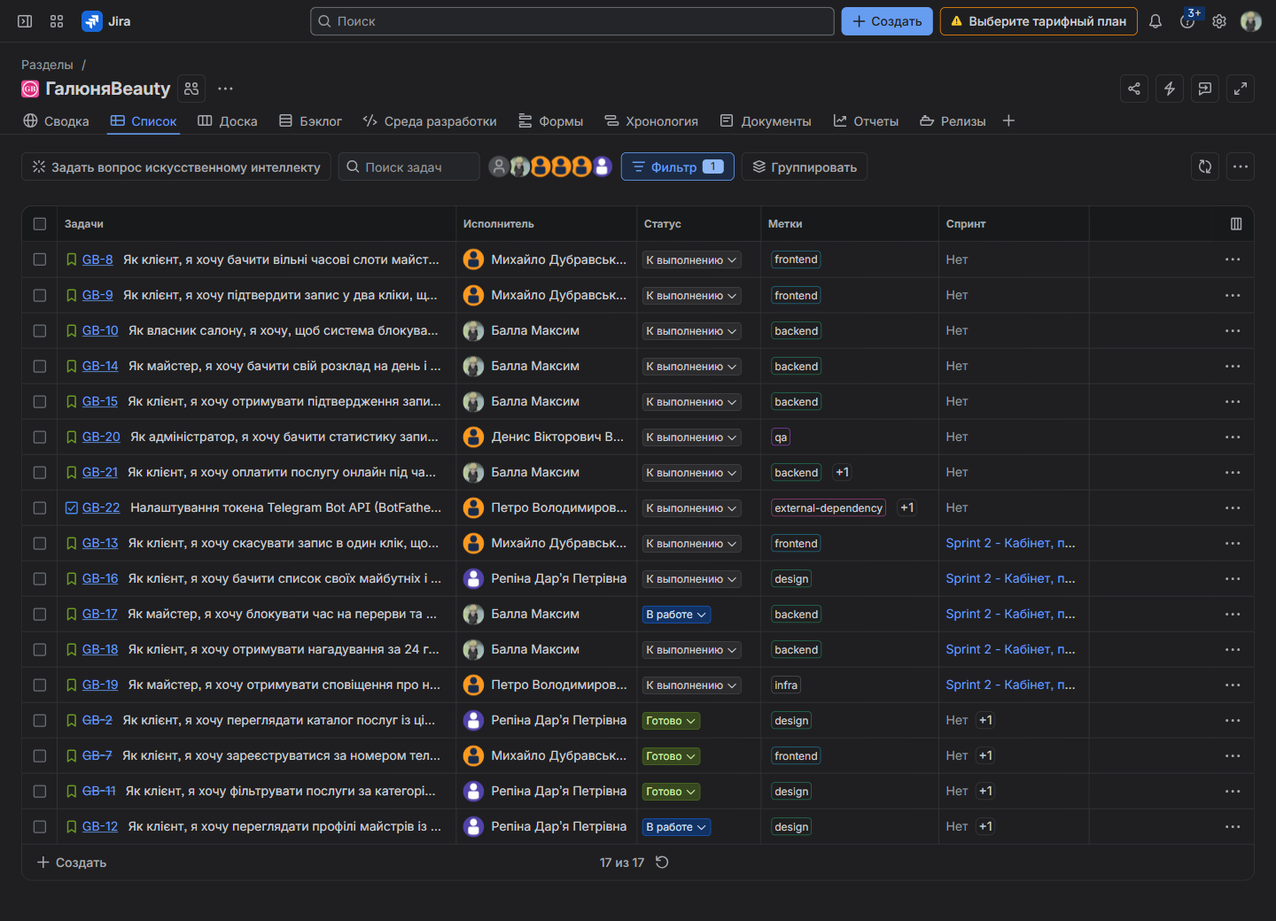
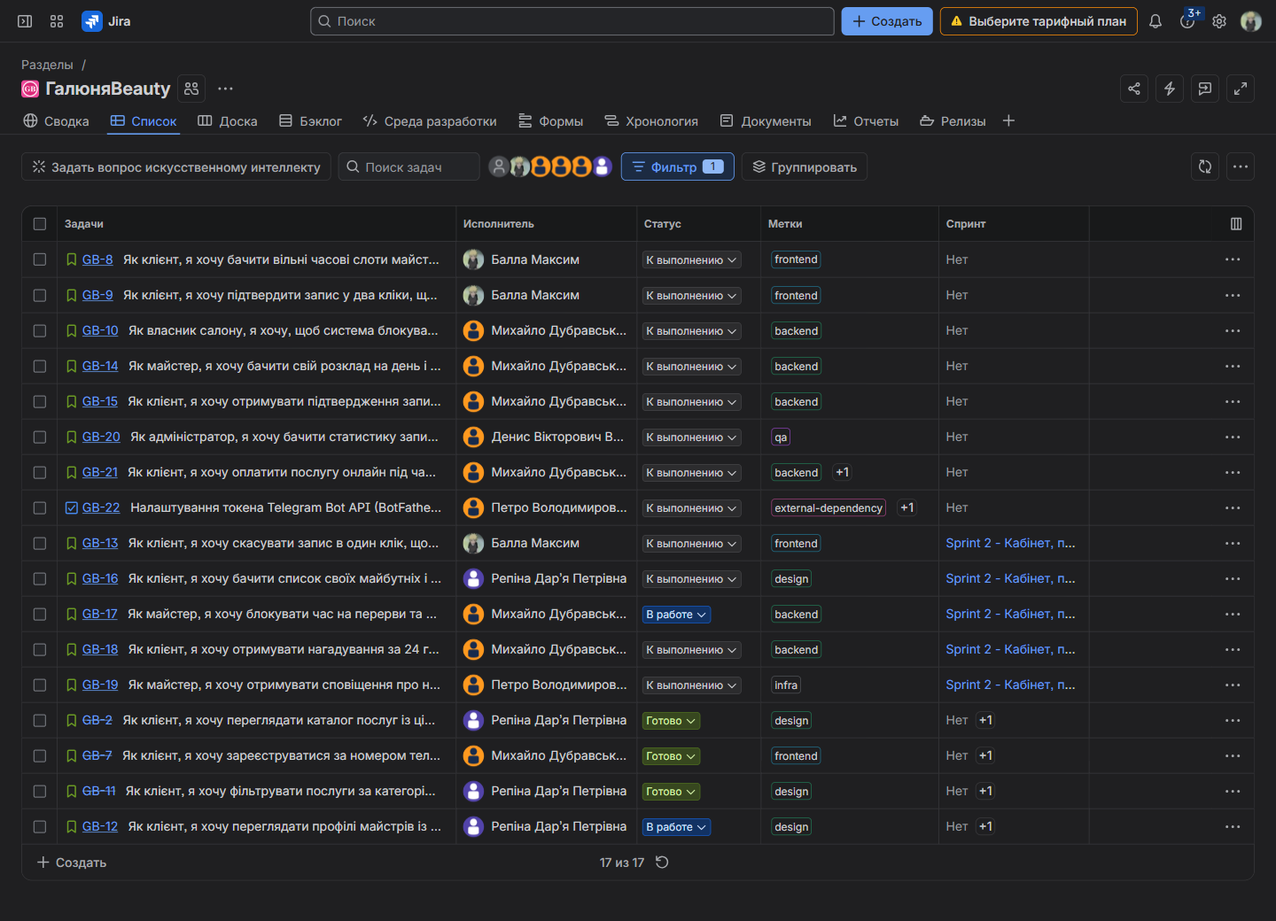
Update roles: Maksym -> Frontend Lead, Mykhailo -> Backend/API & Telegram Lead

diff --git a/resources.md b/resources.md
@@ -8,8 +8,8 @@
 
 | Учасник | Ролі в проєкті | Доступність (FTE) | Годин на тиждень |
 |---------|----------------|:-----------------:|:----------------:|
-| Балла Максим | Tech Lead + Backend | 0.30 | 12 |
-| Михайло Дубравський | Frontend + Backend | 0.25 | 10 |
+| Михайло Дубравський | Backend + API / Telegram | 0.30 | 12 |
+| Балла Максим | Tech Lead + Frontend | 0.25 | 10 |
 | Антонюк Петро | PM + Infra | 0.20 | 8 |
 | Репіна Дар'я | Designer + UI | 0.20 | 8 |
 | Денис Войтенко | Analyst + QA | 0.20 | 8 |
@@ -41,11 +41,11 @@
 
 | Навичка | Антонюк Петро | Балла Максим | Михайло Дубравський | Репіна Дар'я | Денис Войтенко | Потрібний рівень | Ризик |
 |---------|:-------------:|:------------:|:-------------------:|:------------:|:--------------:|:----------------:|-------|
-| React / Frontend | 1 | 2 | 3 | 1 | 0 | ≥2 | Середній (2 учасники ≥2) |
-| Node.js / Backend | 1 | 3 | 2 | 0 | 0 | ≥2 | Середній (2 учасники ≥2) |
-| Бази даних | 1 | 3 | 2 | 0 | 1 | ≥2 | Середній (2 учасники ≥2) |
+| React / Frontend | 1 | 3 | 2 | 1 | 0 | ≥2 | Середній (2 учасники ≥2) |
+| Node.js / Backend + Telegram API | 1 | 2 | 3 | 0 | 0 | ≥2 | Середній (2 учасники ≥2) |
+| Бази даних | 1 | 2 | 3 | 0 | 1 | ≥2 | Середній (2 учасники ≥2) |
 | Тестування (QA) | 2 | 2 | 2 | 1 | 3 | ≥1 | Низький (5 учасників ≥1) |
-| DevOps / Деплой | 1 | 3 | 1 | 0 | 0 | ≥1 | Високий (рівень ≥2 лише у 1 особи) |
+| DevOps / Деплой | 1 | 1 | 3 | 0 | 0 | ≥1 | Високий (рівень ≥2 лише у 1 особи) |
 | Дизайн / Figma | 0 | 1 | 0 | 3 | 1 | ≥1 | Високий (рівень ≥2 лише у 1 особи) |
 | Git / Code Review | 2 | 3 | 2 | 2 | 2 | ≥2 | Низький (усі 5 учасників ≥2) |
 
@@ -55,10 +55,10 @@
 
 | Питання | Відповідь |
 |---------|-----------|
-| Яка навичка покрита лише однією людиною? | Дизайн / Figma на робочому рівні (≥2) має лише Репіна Дар'я (оцінка 3). Самостійний DevOps / деплой і конфігурація Telegram Bot API на рівні ≥2 є лише у Балли Максима (оцінка 3); Антонюк Петро та Михайло Дубравський мають базовий рівень 1. |
-| Який Bus Factor у критичних зонах? | У зонах `design` та `infra` (налаштування хостингу й бота) Bus Factor = **1**. У зонах `backend`, `frontend` і роботі з БД Bus Factor = **2** (Балла Максим і Михайло Дубравський можуть підстрахувати один одного). У `qa` та `Git` Bus Factor ≥ **3**. |
+| Яка навичка покрита лише однією людиною? | Дизайн / Figma на робочому рівні (≥2) має лише Репіна Дар'я (оцінка 3). Самостійний DevOps / деплой і налаштування серверного оточення для Telegram Bot API на рівні ≥2 є лише у Михайла Дубравського (оцінка 3); Антонюк Петро та Балла Максим мають базовий рівень 1. |
+| Який Bus Factor у критичних зонах? | У зонах `design` та `infra` (налаштування хостингу й серверної конфігурації бота) Bus Factor = **1**. У зонах `frontend`, `backend` і роботі з БД Bus Factor = **2** (Балла Максим і Михайло Дубравський можуть підстрахувати один одного). У `qa` та `Git` Bus Factor ≥ **3**. |
 | Яка навичка потрібна, але відсутня/слабка? | Практичний DevOps / налаштування оточення і деплою у більшості учасників команди (максимум 1 бал у 4 з 5 учасників). Це створює ризик затримки на задачі `GB-22` (Telegram Bot API та тестовий хостинг), яка блокує `GB-15`, `GB-18` і `GB-19`. |
-| План закриття розриву (хто що вчить, до якого спринту) | 1. Антонюк Петро разом із Баллою Максимом описує інструкцію деплою та налаштування `.env` / BotFather (`GB-22`) і виконує тестовий деплой до кінця Sprint 2 (`30.11.2026`), піднімаючи DevOps до рівня 2.<br>2. Репіна Дар'я створює спільну бібліотеку UI-компонентів у Figma до кінця Sprint 2 (`30.11.2026`), щоб Михайло Дубравський міг самостійно збирати екрани календаря (`GB-8`, `GB-9`) у Sprint 4.<br>3. Балла Максим і Михайло Дубравський проводять взаємний Code Review кожного PR у `backend` і `frontend` протягом Sprint 2–4. |
+| План закриття розриву (хто що вчить, до якого спринту) | 1. Антонюк Петро разом із Михайлом Дубравським описує інструкцію деплою та налаштування `.env` / BotFather (`GB-22`) і виконує тестовий деплой до кінця Sprint 2 (`30.11.2026`), піднімаючи DevOps до рівня 2.<br>2. Репіна Дар'я створює спільну бібліотеку UI-компонентів у Figma до кінця Sprint 2 (`30.11.2026`), щоб Балла Максим міг самостійно збирати екрани календаря (`GB-8`, `GB-9`) у Sprint 4.<br>3. Балла Максим і Михайло Дубравський проводять взаємний Code Review кожного PR у `frontend` і `backend` протягом Sprint 2–4. |
 
 ---
 
@@ -68,8 +68,8 @@
 
 | Label | Area Lead | К-сть задач | Що входить |
 |-------|-----------|:-----------:|------------|
-| `backend` | Балла Максим | 14 | API, БД, бізнес-логіка, захист від овербукінгу, інтеграція Telegram Bot API (`GB-4`, `GB-5`, `GB-10`, `GB-14`, `GB-15`, `GB-17`, `GB-18`, `GB-21`, `GB-23`, `GB-26`, `GB-30`, `GB-32`, `GB-33`, `GB-35`) |
-| `frontend` | Михайло Дубравський | 8 | UI-компоненти, форми, календар слотів, особистий кабінет (`GB-3`, `GB-7`, `GB-8`, `GB-9`, `GB-13`, `GB-24`, `GB-27`, `GB-31`) |
+| `backend` | Михайло Дубравський | 14 | API, БД, бізнес-логіка, захист від овербукінгу, інтеграція Telegram Bot API (`GB-4`, `GB-5`, `GB-10`, `GB-14`, `GB-15`, `GB-17`, `GB-18`, `GB-21`, `GB-23`, `GB-26`, `GB-30`, `GB-32`, `GB-33`, `GB-35`) |
+| `frontend` | Балла Максим | 8 | UI-компоненти, форми, календар слотів, особистий кабінет (`GB-3`, `GB-7`, `GB-8`, `GB-9`, `GB-13`, `GB-24`, `GB-27`, `GB-31`) |
 | `design` | Репіна Дар'я | 6 | Макети Figma, UX-сценарії, Mobile-First каталог і картки (`GB-1`, `GB-2`, `GB-11`, `GB-12`, `GB-16`, `GB-29`) |
 | `qa` | Денис Войтенко | 5 | Тестування, верифікація AC, перевірка крайніх випадків, аналітика (`GB-20`, `GB-25`, `GB-28`, `GB-34`, `GB-36`) |
 | `infra` | Антонюк Петро | 3 | Деплой, тестовий хостинг, токен BotFather, координація релізів (`GB-6`, `GB-19`, `GB-22`) |
@@ -88,14 +88,14 @@
 
 | Учасник | Задач у спринті (Sprint 2) | SP committed (Sprint 2) | SP done (Sprint 1) | % виконання (Sprint 1) | Висновок |
 |---------|:--------------------------:|:-----------------------:|:------------------:|:----------------------:|----------|
-| Балла Максим | 6 (2 Stories + 4 Subtasks; 16 год) | 6 SP | 0 SP* | — | Завантажений на 83% ефективної Capacity (19.2 год); основна опора в `backend`, у Sprint 4 потрібен розподіл навантаження |
-| Михайло Дубравський | 5 (1 Story + 4 Subtasks; 14 год) | 3 SP | 5 SP (`GB-7`, 5/5) | 100% | Завантажений на 88% ефективної Capacity (16.0 год); веде `frontend` і підстраховує `backend` (`GB-30`, `GB-32`) |
+| Михайло Дубравський | 6 (2 Stories + 4 Subtasks; 16 год) | 6 SP | 5 SP (`GB-7`, 5/5) | 100% | Завантажений на 83% ефективної Capacity (19.2 год); веде `backend` (API та Telegram Bot API), у Sprint 5 потрібен розподіл навантаження на `GB-10`/`GB-15` |
+| Балла Максим | 5 (1 Story + 4 Subtasks; 14 год) | 3 SP | 0 SP* | — | Завантажений на 88% ефективної Capacity (16.0 год); веде `frontend` (`GB-13`, `GB-24`, `GB-27`) і підстраховує `backend` (`GB-23`, `GB-26`) |
 | Денис Войтенко | 4 (0 Stories + 4 Subtasks; 9 год) | 0 SP** | 0 SP (`GB-12`, 0/5) | 0% | Завантажений на 70% ефективної Capacity (12.8 год); у S1 не закрив непрофільну дизайн-історію `GB-12`, у S2 сфокусований на `qa` |
 | Репіна Дар'я | 3 (1 Story + 2 Subtasks; 6 год) | 3 SP | 8 SP (`GB-2`, `GB-11`, 8/8) | 100% | Завантажена на 47% ефективної Capacity (12.8 год); має буфер часу для доробки `GB-12` та підготовки макетів Sprint 3 |
 | Антонюк Петро | 1 (1 Story + 0 Subtasks; +2 год `GB-22`) | 2 SP | 0 SP* | — | Веде `infra` (`GB-19`, `GB-22`) та PM-організацію спринту; має запас на контроль залежностей і приймальне тестування |
 | **Разом** | **19 (5 Stories + 14 Subtasks; 45 год)** | **14 SP** | **13 SP (з 18 SP)** | **72.2%** | Навантаження у Sprint 2 узгоджене з Capacity та зонами відповідальності |
 
-*\*У Sprint 1 Балла Максим і Антонюк Петро виконували налаштування репозиторію, тестового оточення, структури БД та Jira-беклогу, які не оцінювалися окремими User Stories.*
+*\*У Sprint 1 Балла Максим і Антонюк Петро виконували налаштування репозиторію, тестового оточення, структури проєкту та Jira-беклогу, які не оцінювалися окремими User Stories.*
 *\*\*У Jira Scrum Story Points виставляються лише на рівні Stories, тому QA-інженер у Sprint 2 має 0 Story-level SP, але відповідає за 4 Subtasks (`GB-25`, `GB-28`, `GB-34`, `GB-36`, сумарно 9 год) по всіх історіях спринту.*
 
 ---
@@ -105,8 +105,8 @@
 | Виявлена проблема | Рішення | Результат |
 |-------------------|---------|-----------|
 | У Sprint 1 історія `GB-12` (профілі майстрів, 5 SP) була закріплена за QA-аналітиком (Денисом Войтенком) і залишилась незавершеною | Перепризначили `GB-12` на Area Lead зони `design` (Репіну Дар'ю) і запланували завершення у Sprint 3 | Денис зосередився на `qa`; `GB-12` повернулася у свою технічну зону |
-| У Sprint 2 частина задач не відповідала зонам: `GB-19` (Telegram-сповіщення) висіла на дизайнері, `GB-16` та `GB-31 [FE]` — на QA, а `[QA]`-підзадачі `GB-28`, `GB-36` — на PM | Вирівняли призначення за Labels: `GB-19` → Петро (`infra`), `GB-16` і `GB-31` → Дар'я (`design`/`frontend`), `GB-27` → Михайло (`frontend`), `GB-28` і `GB-36` → Денис (`qa`) | Усі 36 задач відповідають своїм зонам та Area Leads; 0 невідповідних призначень |
-| Зона `backend` у Sprint 2 накопичила 6 підзадач на 24 год — при виконанні одним розробником Балла Максим перевищив би власну Capacity (19.2 год) на 25% | За домовленістю 2 backend-підзадачі (`GB-30` API вибірки візитів, `GB-32` cron-планувальник — разом 8 год) передали Михайлу Дубравському | Максим має 16 год (83% Capacity), Михайло — 14 год (88% Capacity); різниця завантаження розробників склала 5% |
+| У Sprint 2 частина задач не відповідала зонам: `GB-19` (Telegram-сповіщення) висіла на дизайнері, `GB-16` та `GB-31 [FE]` — на QA, а `[QA]`-підзадачі `GB-28`, `GB-36` — на PM | Вирівняли призначення за Labels: `GB-19` → Петро (`infra`), `GB-16` і `GB-31` → Дар'я (`design`/`frontend`), `GB-13`, `GB-24`, `GB-27` → Максим (`frontend`), `GB-17`, `GB-18`, `GB-33`, `GB-35` → Михайло (`backend`), `GB-28` і `GB-36` → Денис (`qa`) | Усі 36 задач відповідають своїм зонам та Area Leads; 0 невідповідних призначень |
+| Зона `backend` у Sprint 2 накопичила 6 підзадач на 24 год — при виконанні одним розробником Михайло Дубравський перевищив би власну Capacity (19.2 год) на 25% | За домовленістю 2 backend-підзадачі (`GB-23` API перерв, `GB-26` ендпоінт скасування — разом 8 год) залишили за Баллою Максимом, а Михайло сфокусувався на Telegram Bot API, cron та БД (`GB-30`, `GB-32`, `GB-33`, `GB-35` — 16 год) | Михайло має 16 год (83% Capacity), Максим — 14 год (88% Capacity); різниця завантаження розробників склала 5% |
 | У налаштуваннях Jira `Default assignee` був `Unassigned`, тож нові задачі створювалися без відповідального | У `Space settings → Details` призначили Space owner = Антонюк Петро (PM) та `Default assignee` = Space owner | Жодна нова задача не губиться без виконавця (`assignee is EMPTY` = 0) |
 
 ---
@@ -116,8 +116,8 @@
 | Спринт | Період | Потрібні зони | Capacity (год) | Особливості |
 |--------|--------|---------------|:--------------:|-------------|
 | Sprint 3 | 30.11.2026 – 14.12.2026 | `design` (`GB-12` 5 SP), `backend` (`GB-14` 5 SP), `qa` | 62.0 год | Початок залікового тижня (−15% доступності команди); плановий обсяг знижено до 10 SP для гарантованого закриття критичної `GB-14` |
-| Sprint 4 | 14.12.2026 – 28.12.2026 | `frontend` (`GB-8` 8 SP, `GB-9` 5 SP), `backend`, `qa` | 58.0 год | Зимова сесія та іспити (−20% доступності); пікове навантаження на `frontend` (13 SP), потрібна допомога Балли Максима у верстці або перенесення частини `Should Have` |
-| Sprint 5 | 28.12.2026 – 11.01.2027 | `backend` (`GB-10` 8 SP, `GB-15` 5 SP), `qa`, `infra` | 73.6 год | Релізний спринт `v1.0-MVP`: захист від овербукінгу, фінальне приймальне тестування та деплой |
+| Sprint 4 | 14.12.2026 – 28.12.2026 | `frontend` (`GB-8` 8 SP, `GB-9` 5 SP), `backend`, `qa` | 58.0 год | Зимова сесія та іспити (−20% доступності); пікове навантаження на `frontend` (Балла Максим — 13 SP), потрібна допомога Михайла Дубравського у верстці або перенесення частини `Should Have` |
+| Sprint 5 | 28.12.2026 – 11.01.2027 | `backend` (`GB-10` 8 SP, `GB-15` 5 SP), `qa`, `infra` | 73.6 год | Релізний спринт `v1.0-MVP`: захист від овербукінгу, Telegram-підтвердження, фінальне тестування та деплой |
 
 ---
 
@@ -125,7 +125,7 @@
 
 | № | Що на скріншоті | Файл |
 |:-:|-----------------|------|
-| 1 | Backlog з Labels | [`docs/img/lab9-labels.png`](docs/img/lab9-labels.png) |
+| 1 | Backlog / Список з Labels | [`docs/img/lab9-labels.png`](docs/img/lab9-labels.png) |
 | 2 | Board по Assignee | [`docs/img/lab9-workload.png`](docs/img/lab9-workload.png) |
 | 3 | Board по Labels | [`docs/img/lab9-areas.png`](docs/img/lab9-areas.png) |
 | 4 | Velocity report | [`docs/img/lab9-velocity.png`](docs/img/lab9-velocity.png) |
@@ -146,13 +146,13 @@
 ## 2.10. Висновки команди
 
 1. **Хто у команді перевантажений або недовантажений і чому?**
-   Найвище технічне навантаження у Sprint 2 несуть розробники — Михайло Дубравський (88% ефективної Capacity, 14 год Subtasks) та Балла Максим (83% Capacity, 16 год Subtasks), оскільки 6 із 14 підзадач спринту належать до `backend` і 3 — до `frontend`. Після передачі `GB-30` і `GB-32` Михайлу перевантаження знято. Репіна Дар'я (47% Capacity у Sprint 2) та Антонюк Петро мають запас часу, що виправдано структурою спринту: у Sprint 2 домінує серверна логіка й Telegram-інтеграція, а їхній резерв спрямовується на доробку `GB-12`, макети для Sprint 3 та контроль зовнішньої залежності `GB-22`.
+   Найвище технічне навантаження у Sprint 2 несуть розробники — Балла Максим (88% ефективної Capacity, 14 год Subtasks) та Михайло Дубравський (83% Capacity, 16 год Subtasks), оскільки 6 із 14 підзадач спринту належать до `backend` і 3 — до `frontend`. Після розподілу `backend`-підзадач (`GB-23` і `GB-26` — Максиму, а API/Telegram `GB-30`, `GB-32`, `GB-33`, `GB-35` — Михайлу) перевантаження знято. Репіна Дар'я (47% Capacity у Sprint 2) та Антонюк Петро мають запас часу, що виправдано структурою спринту: у Sprint 2 домінує API та Telegram-інтеграція, а їхній резерв спрямовується на доробку `GB-12`, макети для Sprint 3 та контроль зовнішньої залежності `GB-22`.
 
 2. **Який Bus Factor і як його підвищуємо?**
-   У ключовій розробці (`backend`, `frontend`, БД) Bus Factor дорівнює 2 завдяки взаємозамінності Балли Максима та Михайла Дубравського. Вузькі місця з Bus Factor = 1 виявлено у двох зонах: `design` (Figma на робочому рівні лише у Репіної Дар'ї) та `infra / DevOps` (налаштування хостингу й бота лише у Балли Максима). До кінця Sprint 2 підвищуємо Bus Factor до 2 у цих зонах через спільну документацію деплою і тренувальний деплой Антонюка Петра, а також через бібліотеку компонентів Figma для фронтенд-розробника.
+   У ключовій розробці (`frontend`, `backend`, БД) Bus Factor дорівнює 2 завдяки взаємозамінності Балли Максима та Михайла Дубравського. Вузькі місця з Bus Factor = 1 виявлено у двох зонах: `design` (Figma на робочому рівні лише у Репіної Дар'ї) та `infra / DevOps` (серверний деплой на рівні 3 лише у Михайла Дубравського). До кінця Sprint 2 підвищуємо Bus Factor до 2 у цих зонах через спільну документацію деплою і тренувальний деплой Антонюка Петра, а також через бібліотеку компонентів Figma для фронтенд-розробника (Балли Максима).
 
 3. **Чи реалістична запланована кількість SP на наступний спринт при поточній Capacity?**
-   Так. При ефективній Capacity 73.6 год і фактичній Velocity 13 SP (5.66 год/SP) плановий обсяг Sprint 3 у **10 SP** (`GB-12` + `GB-14`) є реалістичним навіть із урахуванням падіння доступності команди на 15% через заліковий тиждень (`62 год ÷ 5.66 ≈ 11 SP`). Водночас для Sprint 4 (13 SP під час сесії при Capacity 58 год) існує ризик недовиконання, тому команді потрібно заздалегідь залучити обох розробників до `GB-8`/`GB-9`.
+   Так. При ефективній Capacity 73.6 год і фактичній Velocity 13 SP (5.66 год/SP) плановий обсяг Sprint 3 у **10 SP** (`GB-12` + `GB-14`) є реалістичним навіть із урахуванням падіння доступності команди на 15% через заліковий тиждень (`62 год ÷ 5.66 ≈ 11 SP`). Водночас для Sprint 4 (13 SP на `frontend` під час сесії при Capacity 58 год) існує ризик недовиконання, тому команді потрібно заздалегідь залучити обох розробників до `GB-8`/`GB-9`.
 
 4. **Яка зона має найбільше задач і чи відповідає це кількості людей у ній?**
-   Найбільше задач у проєкті припадає на зону **`backend`** — 14 із 36 задач (38.9% беклогу, з них 8 задач на 24 год у Sprint 2). Якби в цій зоні працювала одна людина, це створило б вузьке місце; зараз у `backend` фактично працюють двоє розробників (Area Lead Балла Максим і підтримка Михайла Дубравського), що дозволяє тримати завантаження обох у безпечних межах 83–88% Capacity.
+   Найбільше задач у проєкті припадає на зону **`backend`** (API, БД, Telegram Bot API) — 14 із 36 задач (38.9% беклогу, з них 8 задач на 24 год у Sprint 2). Якби в цій зоні працювала одна людина, це створило б вузьке місце; зараз у `backend` фактично працюють двоє розробників (Area Lead Михайло Дубравський і підтримка Балли Максима), що дозволяє тримати завантаження обох у безпечних межах 83–88% Capacity.

diff --git a/project-brief.md b/project-brief.md
@@ -46,7 +46,7 @@
 | Прізвище та ім'я | Роль у проєкті | GitHub Username | Зона відповідальності |
 | :--- | :--- | :--- | :--- |
 | **Антонюк Петро** | Project Manager (Team Lead) | `@antoniuk-petro` | Стежить за дедлайнами, організовує команду та не дає проєкту зійти з рейок |
-| **Балла Максим** | Developer (Tech Lead) | `@Maliciz` | Пише код, налаштовує сервери і робить так, щоб сайт працював стабільно |
-| **Михайло Дубравський** | Developer | `@DuM1h` | Розробляє функції сервісу, логіку взаємодії та відловлює помилки в коді |
+| **Балла Максим** | Frontend Developer (Tech Lead) | `@Maliciz` | Розробляє клієнтський інтерфейс (UI), календар запису, кабінет клієнта і стежить за якістю коду |
+| **Михайло Дубравський** | Backend Developer (API, Telegram) | `@DuM1h` | Розробляє серверний API, базу даних, захист від овербукінгу та інтеграцію з Telegram Bot API |
 | **Репіна Дар'я** | Designer | `@Dasha-prog8642` | Створює простий і приємний дизайн інтерфейсу, щоб користувачу було зручно |
 | **Денис Войтенко** | Analyst | `@DenisVoytenko1001` | Досліджує ринок, збирає побажання клієнтів і перевіряє логіку бізнес-процесів |

diff --git a/jira-setup.md b/jira-setup.md
@@ -55,8 +55,8 @@
 | Ім'я | Jira Username | Роль у проекті |
 |------|--------------|----------------|
 | Антонюк Петро | kn24-p.antoniuk@nubip.edu.ua | Project Manager (Team Lead) - Administrator |
-| Балла Максим | mksmballa@gmail.com | Developer (Tech Lead) - Administrator |
-| Михайло Дубравський | dumih00@gmail.com | Developer - Member |
+| Балла Максим | mksmballa@gmail.com | Frontend Developer (Tech Lead) - Administrator |
+| Михайло Дубравський | dumih00@gmail.com | Backend Developer (API, Telegram) - Member |
 | Репіна Дар'я | kn24-d.repina@nubip.edu.ua | Designer - Member |
 | Денис Войтенко | kn24-d.voitenko@nubip.edu.ua | Analyst - Member |
 | Andrii Hlazunov (викладач) | a-hlazunov@nubip.edu.ua | Administrator (перевірка) |

diff --git a/README.md b/README.md
@@ -5,10 +5,10 @@
 ## Склад команди та ролі
 
 * **Антонюк Петро** — Project Manager (Team Lead)
-* **Балла Максим** — Developer (Tech Lead)
-* **Михайло Дубравський** — Developer
+* **Балла Максим** — Frontend Developer (Tech Lead)
+* **Михайло Дубравський** — Backend Developer (API, Telegram)
 * **Репіна Дар'я** — Designer
-* **Денис Войтенко** — Analyst
+* **Денис Войтенко** — Analyst (QA)
 
 ---
 
